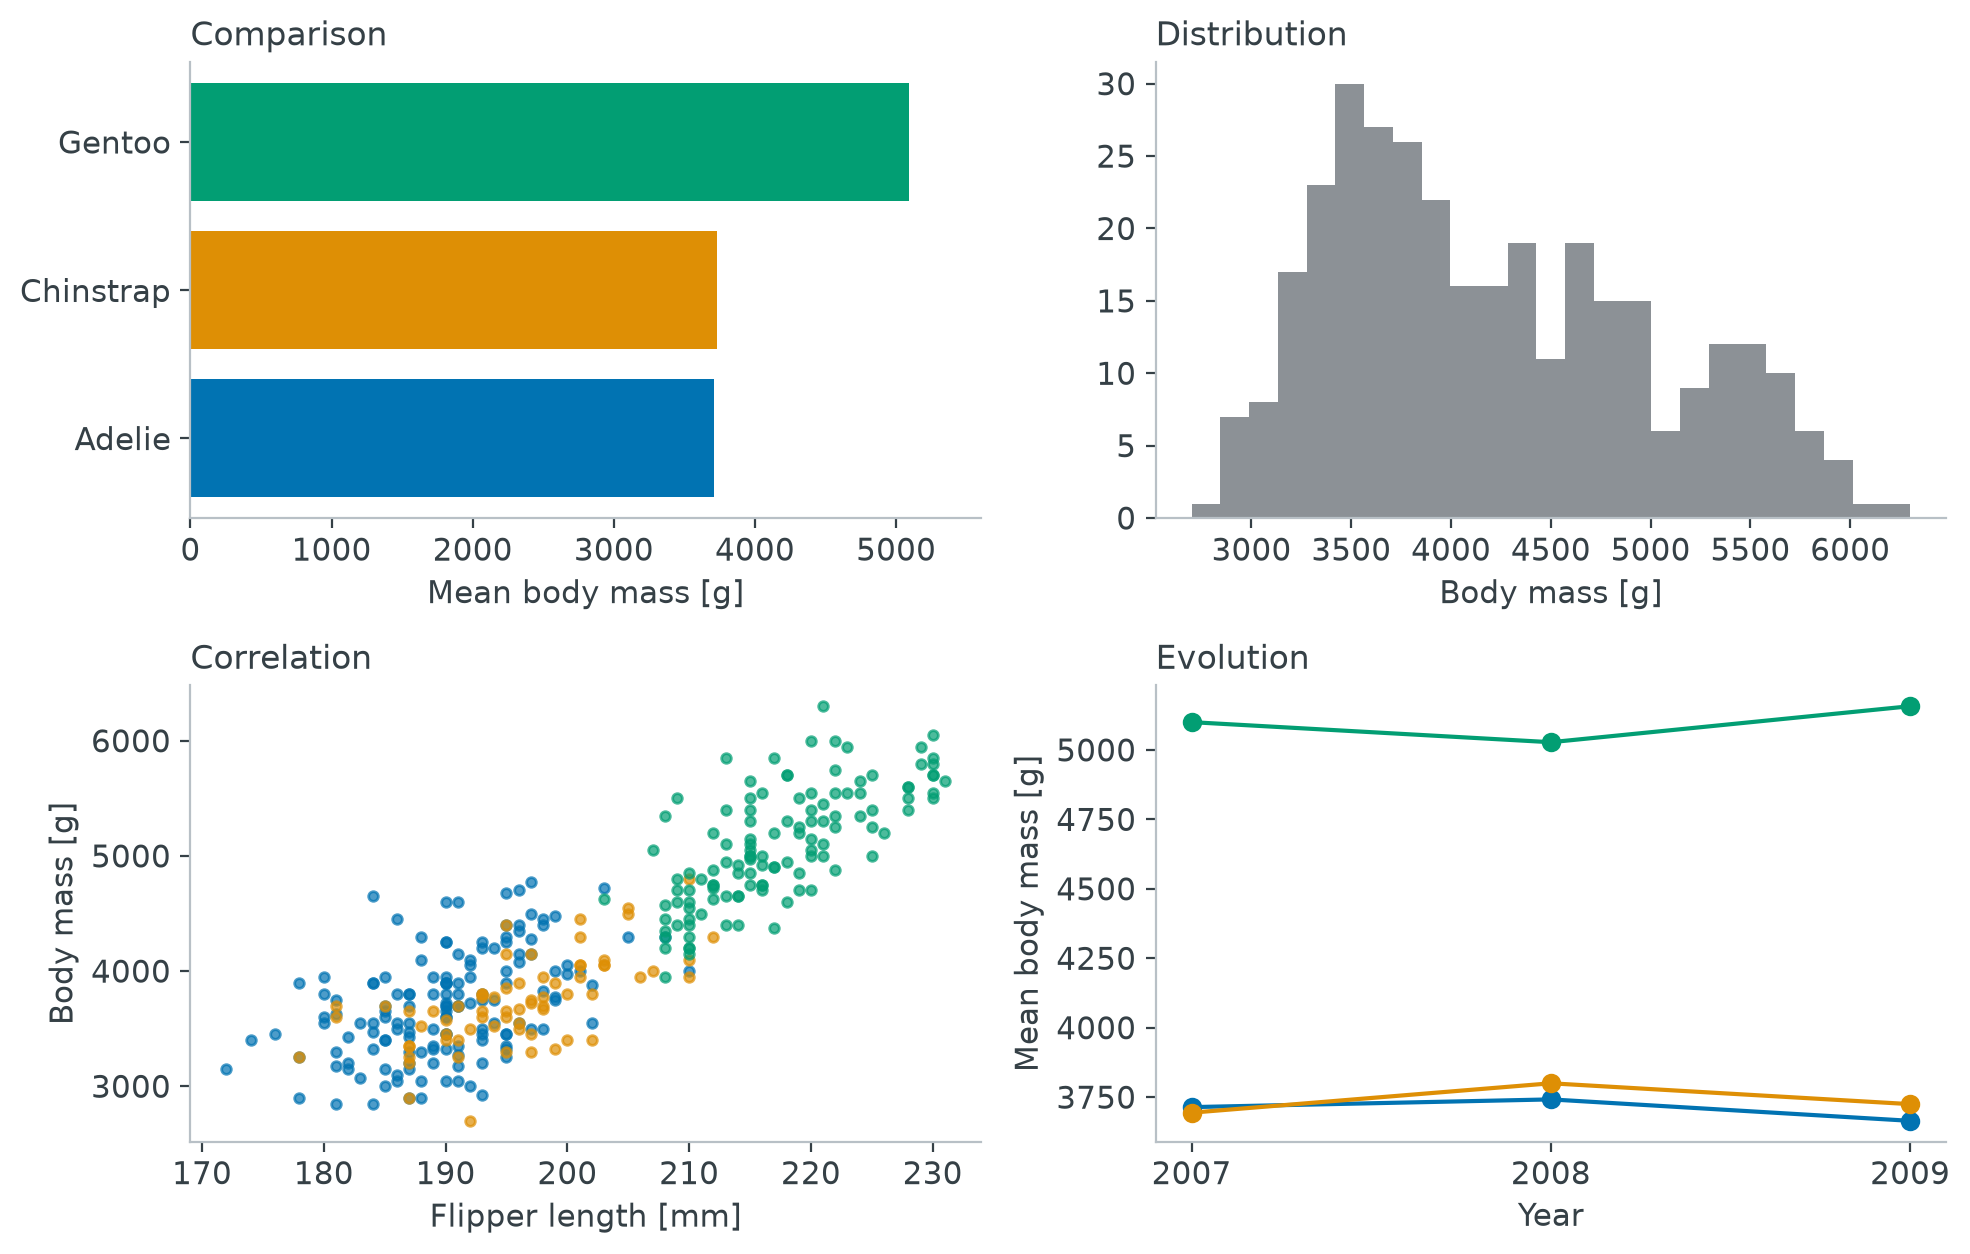
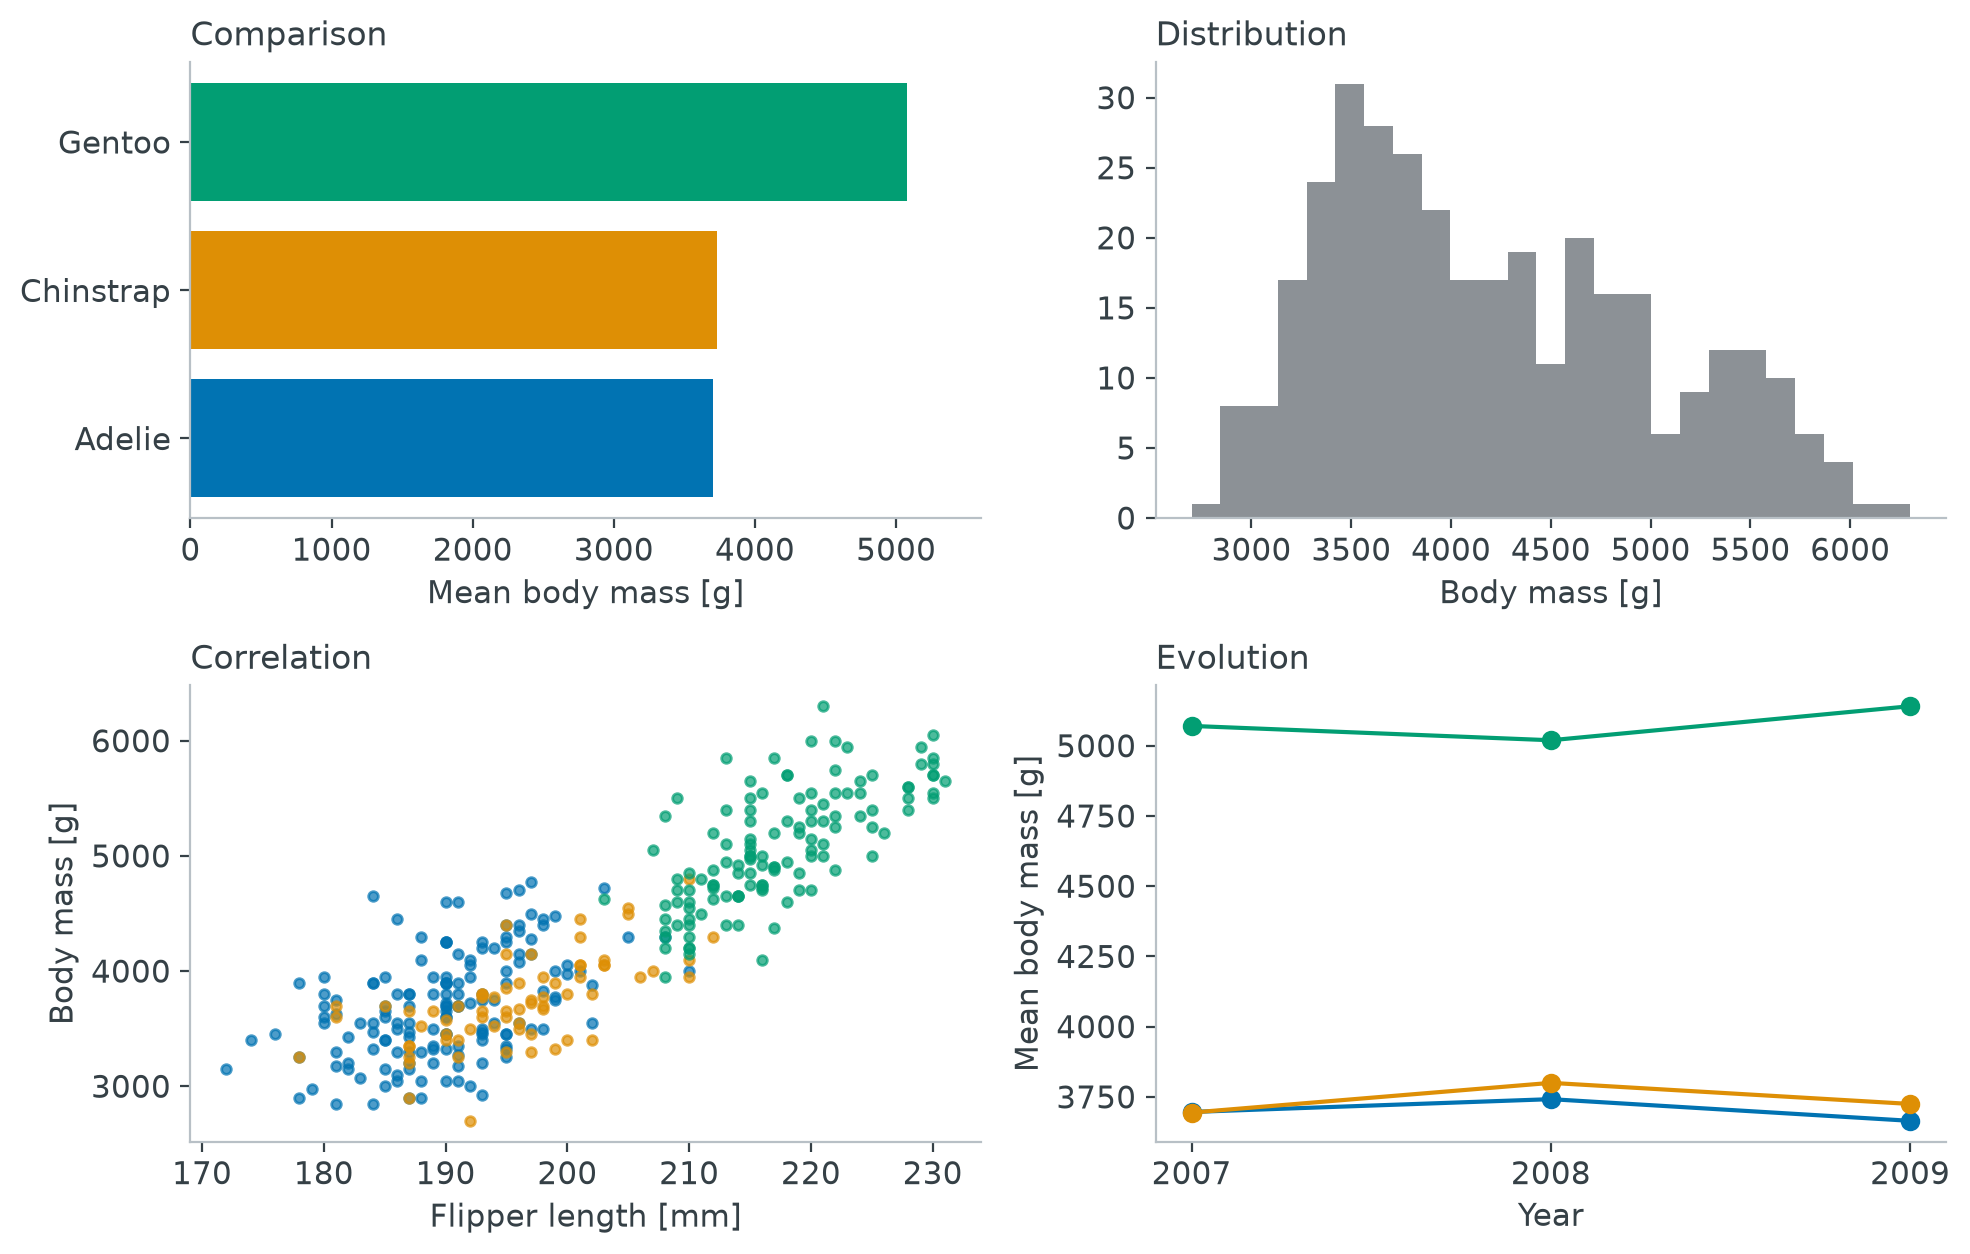
Add the scripts that generate the course figures

diff --git a/scripts/figures_lec3.py b/scripts/figures_lec3.py
@@ -1,0 +1,177 @@
+"""Regenerate the figures of lecture 3 that are drawn for the course.
+
+Usage: uv run python scripts/figures_lec3.py
+"""
+
+import matplotlib.pyplot as plt
+import numpy as np
+import pandas as pd
+from matplotlib.colors import hsv_to_rgb
+
+GREY = "#354046"
+RED = "#c0392b"
+SPECIES = ["Adelie", "Chinstrap", "Gentoo"]
+COLOR = {"Adelie": "#0173b2", "Chinstrap": "#de8f05", "Gentoo": "#029e73"}
+LABEL_AT = {"Adelie": (178, 4750), "Chinstrap": (203.5, 3050), "Gentoo": (212, 6250)}
+
+plt.rcParams.update({"font.size": 11, "text.color": GREY, "axes.labelcolor": GREY,
+                     "xtick.color": GREY, "ytick.color": GREY, "axes.edgecolor": "#b8c0c6"})
+
+
+def save(fig, path, tight=True):
+    if tight:
+        fig.tight_layout()
+    fig.savefig(path, bbox_inches="tight", facecolor="white")
+    print("wrote", path)
+
+
+def hsv_model():
+    """The HSV model: a hue wheel, then saturation and value ramps."""
+    fig = plt.figure(figsize=(12.0, 4.4), dpi=200)
+    gs = fig.add_gridspec(1, 3, width_ratios=[2.6, 1, 1], wspace=1.0)
+
+    ax = fig.add_subplot(gs[0], projection="polar")
+    theta = np.linspace(0, 2 * np.pi, 720)
+    radius = np.linspace(0, 1, 120)
+    T, R = np.meshgrid(theta, radius)
+    rgb = hsv_to_rgb(np.dstack([T / (2 * np.pi), R, np.ones_like(R)]))
+    ax.pcolormesh(theta, radius, np.zeros_like(R), color=rgb.reshape(-1, 3), shading="auto")
+    ax.set_yticks([])
+    ax.set_xticks([])
+    ax.spines["polar"].set_visible(False)
+    for degrees, name in [(0, "Red\n0°"), (60, "Yellow\n60°"), (120, "Green\n120°"),
+                          (180, "Cyan\n180°"), (240, "Blue\n240°"), (300, "Magenta\n300°")]:
+        ax.text(np.deg2rad(degrees), 1.24, name, ha="center", va="center", fontsize=10, color=GREY)
+    ax.set_title("Hue", fontsize=13, color=GREY, pad=26)
+
+    def ramp(position, title, channels):
+        ax = fig.add_subplot(gs[position])
+        t = np.linspace(0, 1, 256)
+        img = hsv_to_rgb(np.dstack(channels(t)).reshape(1, 256, 3))
+        ax.imshow(np.transpose(img, (1, 0, 2)), origin="lower", aspect="auto", extent=(0, 1, 0, 100))
+        ax.set_xticks([])
+        ax.set_yticks([0, 50, 100])
+        ax.set_yticklabels(["0%", "50%", "100%"], fontsize=10, color=GREY)
+        ax.tick_params(length=0)
+        for spine in ax.spines.values():
+            spine.set_visible(False)
+        ax.set_title(title, fontsize=13, color=GREY, pad=26)
+
+    ramp(1, "Saturation", lambda t: (np.zeros_like(t), t, np.ones_like(t)))
+    ramp(2, "Value", lambda t: (np.zeros_like(t), np.ones_like(t), t))
+    save(fig, "figures/lec3/hsv.png", tight=False)
+
+
+def exploratory_explanatory(df):
+    """The same scatter drawn for oneself, then for an audience."""
+    fig, (raw, polished) = plt.subplots(1, 2, figsize=(11, 4.2), dpi=200)
+    raw.scatter(df.flipper_length_mm, df.body_mass_g)
+    raw.set_title("Exploratory: ten seconds, for yourself", fontsize=12, loc="left")
+
+    for species in SPECIES:
+        d = df[df.species == species]
+        polished.scatter(d.flipper_length_mm, d.body_mass_g, s=18, alpha=.75, color=COLOR[species])
+        polished.annotate(species, LABEL_AT[species], color=COLOR[species], fontsize=12,
+                          fontweight="bold", ha="center")
+    polished.set_xlabel("Flipper length [mm]")
+    polished.set_ylabel("Body mass [g]")
+    polished.set_title("Explanatory: longer flippers, heavier birds", fontsize=12, loc="left")
+    polished.grid(alpha=.25)
+    polished.set_ylim(2500, 6700)
+
+    for ax in (raw, polished):
+        ax.spines[["top", "right"]].set_visible(False)
+    save(fig, "figures/lec3/exploratory-explanatory.png")
+
+
+def four_questions(df):
+    """Doumont's four questions, each answered on the same data."""
+    fig, axes = plt.subplots(2, 2, figsize=(10, 6.4), dpi=200)
+
+    means = df.groupby("species").body_mass_g.mean().reindex(SPECIES)
+    axes[0, 0].barh(SPECIES, means.values, color=[COLOR[s] for s in SPECIES])
+    axes[0, 0].set_xlim(0, 5600)
+    axes[0, 0].set_title("Comparison", loc="left", fontsize=12)
+    axes[0, 0].set_xlabel("Mean body mass [g]")
+
+    axes[0, 1].hist(df.body_mass_g, bins=25, color="#8c9196")
+    axes[0, 1].set_title("Distribution", loc="left", fontsize=12)
+    axes[0, 1].set_xlabel("Body mass [g]")
+
+    for species in SPECIES:
+        d = df[df.species == species]
+        axes[1, 0].scatter(d.flipper_length_mm, d.body_mass_g, s=12, alpha=.7, color=COLOR[species])
+    axes[1, 0].set_title("Correlation", loc="left", fontsize=12)
+    axes[1, 0].set_xlabel("Flipper length [mm]")
+    axes[1, 0].set_ylabel("Body mass [g]")
+
+    evolution = df.groupby(["year", "species"]).body_mass_g.mean().unstack()
+    for species in SPECIES:
+        axes[1, 1].plot(evolution.index, evolution[species], marker="o", color=COLOR[species])
+    axes[1, 1].set_xticks(evolution.index)
+    axes[1, 1].set_title("Evolution", loc="left", fontsize=12)
+    axes[1, 1].set_xlabel("Year")
+    axes[1, 1].set_ylabel("Mean body mass [g]")
+
+    for ax in axes.ravel():
+        ax.spines[["top", "right"]].set_visible(False)
+    save(fig, "figures/lec3/four-questions.png")
+
+
+def anatomy(df):
+    """One scatter, annotated with the pieces of the grammar."""
+    fig, ax = plt.subplots(figsize=(9.5, 5.4), dpi=200)
+    for species in SPECIES:
+        d = df[df.species == species]
+        ax.scatter(d.flipper_length_mm, d.body_mass_g, s=22, alpha=.8, color=COLOR[species],
+                   label=species)
+    ax.set_xlabel("Flipper length [mm]")
+    ax.set_ylabel("Body mass [g]")
+    ax.legend(title="Species", frameon=False, loc="lower right")
+    ax.spines[["top", "right"]].set_visible(False)
+    ax.set_xlim(168, 236)
+    ax.set_ylim(2400, 7400)
+
+    arrow = dict(arrowstyle="->", color=RED, lw=1.3)
+    ax.annotate("mark: one point per penguin", xy=(190.2, 4650), xytext=(176, 6100),
+                color=RED, fontsize=11, arrowprops=arrow)
+    ax.text(176, 6950, "channels: x position, y position, colour", color=RED, fontsize=11)
+    ax.text(176, 6650, "scales: 170–235 mm, 2500–6500 g", color=RED, fontsize=11)
+    ax.annotate("guides: axis labels, ticks, legend", xy=(222, 3050), xytext=(196, 2550),
+                color=RED, fontsize=11, arrowprops=arrow)
+    save(fig, "figures/lec3/anatomy.png")
+
+
+def colormap_types(df):
+    """Sequential, diverging and categorical colormaps, each on fitting data."""
+    fig, axes = plt.subplots(1, 3, figsize=(12, 3.6), dpi=200)
+    grid = np.linspace(-3, 3, 200)
+    X, Y = np.meshgrid(grid, grid)
+    Z = np.exp(-(X ** 2 + Y ** 2) / 3) * np.sin(2 * X)
+
+    axes[0].imshow(np.abs(Z), cmap="viridis", extent=(-3, 3, -3, 3))
+    axes[0].set_title("Sequential: ordered data", fontsize=12, loc="left")
+    axes[1].imshow(Z, cmap="RdBu_r", vmin=-.9, vmax=.9, extent=(-3, 3, -3, 3))
+    axes[1].set_title("Diverging: a meaningful zero", fontsize=12, loc="left")
+
+    for species in SPECIES:
+        d = df[df.species == species]
+        axes[2].scatter(d.flipper_length_mm, d.body_mass_g, s=12, alpha=.8, color=COLOR[species],
+                        label=species)
+    axes[2].set_title("Categorical: unordered groups", fontsize=12, loc="left")
+    axes[2].legend(frameon=False, fontsize=9, loc="upper left")
+    axes[2].spines[["top", "right"]].set_visible(False)
+
+    for ax in axes[:2]:
+        ax.set_xticks([])
+        ax.set_yticks([])
+    save(fig, "figures/lec3/colormap-types.png")
+
+
+if __name__ == "__main__":
+    penguins = pd.read_csv("data/penguins.csv").dropna(subset=["flipper_length_mm", "body_mass_g"])
+    hsv_model()
+    exploratory_explanatory(penguins)
+    four_questions(penguins)
+    anatomy(penguins)
+    colormap_types(penguins)

diff --git a/scripts/figures_lec2.py b/scripts/figures_lec2.py
@@ -1,0 +1,78 @@
+"""Regenerate the figures of lecture 2 that are drawn from the penguins data.
+
+Usage: uv run python scripts/figures_lec2.py
+"""
+
+import matplotlib.pyplot as plt
+import pandas as pd
+
+GREY = "#354046"
+COLS = ["species", "island", "bill_length_mm", "body_mass_g", "sex"]
+HEADER = ["", "species", "island", "bill length (mm)", "body mass (g)", "sex"]
+
+
+def cell(value):
+    if pd.isna(value):
+        return "NaN"
+    return f"{value:.1f}" if isinstance(value, float) else str(value)
+
+
+def table(rows, header, missing, path, figsize):
+    fig, ax = plt.subplots(figsize=figsize, dpi=200)
+    ax.axis("off")
+    t = ax.table(cellText=rows, colLabels=header, cellLoc="right", loc="center")
+    t.auto_set_font_size(False)
+    t.set_fontsize(9)
+    t.scale(1, 1.35)
+
+    for (r, c), box in t.get_celld().items():
+        box.set_linewidth(0)
+        box.set_text_props(color=GREY)
+        if r == 0:
+            box.set_facecolor("#e8e8e8")
+            box.set_text_props(weight="bold")
+        elif (r, c) in missing:
+            box.set_facecolor("#fdecea")
+            box.set_text_props(color="#c0392b")
+        else:
+            box.set_facecolor("#ffffff" if r % 2 else "#f5f5f5")
+
+    t.auto_set_column_width(col=list(range(len(header))))
+    fig.tight_layout()
+    fig.savefig(path, bbox_inches="tight", facecolor="white")
+    print("wrote", path)
+
+
+def head_and_tail(df):
+    """The first and last records, with an ellipsis row in between."""
+    rows = []
+    for idx in [0, 1, 2, 3, 4]:
+        rows.append([str(idx)] + [cell(v) for v in df.loc[idx, COLS]])
+    rows.append(["..."] * (len(COLS) + 1))
+    for idx in [339, 340, 341, 342, 343]:
+        rows.append([str(idx)] + [cell(v) for v in df.loc[idx, COLS]])
+    return rows
+
+
+def with_missing(df):
+    """The records holding at least one missing entry, and the cells to highlight."""
+    cols = ["species", "island", "bill_length_mm", "bill_depth_mm",
+            "flipper_length_mm", "body_mass_g", "sex"]
+    header = ["", "species", "island", "bill len.", "bill depth", "flipper len.",
+              "body mass", "sex"]
+    rows, missing = [], set()
+    for r, (idx, record) in enumerate(df[df.isna().any(axis=1)][cols].iterrows(), start=1):
+        row = [str(idx)]
+        for c, value in enumerate(record, start=1):
+            if pd.isna(value):
+                missing.add((r, c))
+            row.append(cell(value))
+        rows.append(row)
+    return rows, header, missing
+
+
+if __name__ == "__main__":
+    df = pd.read_csv("data/penguins.csv")
+    table(head_and_tail(df), HEADER, set(), "figures/lec2/penguins-tabular.png", (7.4, 3.3))
+    rows, header, missing = with_missing(df)
+    table(rows, header, missing, "figures/lec2/penguins-missing.png", (8.6, 3.0))
